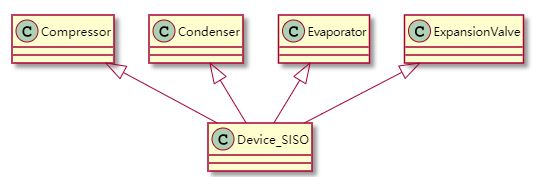
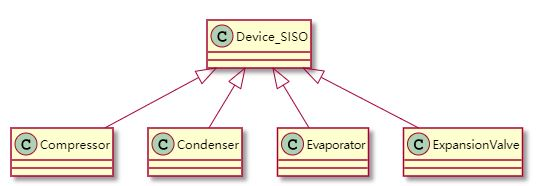
update fig

diff --git a/doc/Dot_Class_VCCE.md b/doc/Dot_Class_VCCE.md
@@ -1,0 +1,124 @@
+# Class Diagrams of VCCE in Dot
+
+- [Class Diagrams of VCCE in Dot](#class-diagrams-of-vcce-in-dot)
+  - [Class Method or Field](#class-method-or-field)
+    - [Visibility](#visibility)
+    - [Scope](#scope)
+  - [Class and Instance Relationships](#class-and-instance-relationships)
+    - [Instance-level Relationships](#instance-level-relationships)
+    - [Class-level  Relationship](#class-level--relationship)
+
+## Class Method or Field
+
+### Visibility
+
+When you define methods or fields, you can use **characters** to define the **visibility** of the corresponding item:
+
+| Character | Visibility |
+| --------- | :--------: |
+| -         |  private   |
+| +         |  public   |
+  
+
+```dot
+digraph "classes" {
+rankdir=BT
+charset="utf-8"
+"VCCycle" [
+       color="black", fontcolor="black", 
+      label="{VCCycle|
+       + name : str\l 
+       + refrigerant : str\l
+       + comps : dict of device\l 
+       + conns : Connector\l
+       + Qin : float\l 
+       + Qout : float\l 
+       + Wc : float\l
+       + cop : float\l
+       + cop_hp : float\l|
+       + VCCycle(dictcycle:dict)\l
+       - component_simulator()\l 
+       + simulator()\l 
+       + __str__():str\l}", shape="record", style="solid"];
+}
+
+
+```
+### Scope
+
+The UML specifies two types of scope for members: `instance and class`
+
+You can define **class**  methods or fields using the **static**
+
+```dot
+digraph "classes" {
+rankdir=BT
+charset="utf-8"
+"components.device_siso.Device_SISO" [color="black", fontcoor="black", 
+              label="{Device_SISO|
+               + static devtype: str\l
+               + static energy: str\l 
+               + name:str \l 
+               + iPort: Port\l 
+               + oPort: Port\l|
+               + Device_SISO(dictDev：dicts)\l 
+               + state()\l 
+               + mass_balance()\l 
+               + balance()\l 
+               + __str()__:str\l}",
+               shape="record", style="solid"];
+}
+
+```
+
+##  Class and Instance Relationships
+
+### Instance-level Relationships
+
+* Composition： a filled diamond shape (diamond)
+* Aggregation： a filled diamond shape (odiamond)
+
+```dot
+digraph {
+rankdir=BT
+
+node [shape="record"]
+
+"Connector" -> "VCCycle"
+  [arrowhead="diamond", arrowtail="none",fontcolor="blue",
+  label="1..*", style="solid"]
+
+{ "Compressor",
+  "Condenser",
+  "Evaporator",
+  "ExpansionValve"} -> "VCCycle"
+  [arrowhead="odiamond", arrowtail="none",fontcolor="blue",
+  label="1..*", style="solid"]
+
+"Port"-> {
+    "Connector",
+    "ExpansionValve",
+    "Evaporator",
+    "Condenser",
+    "Compressor"}
+    [arrowhead="diamond", arrowtail="none",
+     fontcolor="blue",label="2", style="solid"]
+} 
+```
+
+### Class-level  Relationship
+ 
+* Inheritance： a hollow triangle shape(empty)
+
+```dot
+digraph {
+rankdir=BT
+node [shape="record"]
+{
+   "Compressor",
+    "Condenser",
+    "Evaporator",
+    "ExpansionValve"}->"Device_SISO"
+     [arrowhead="empty", arrowtail="none",style="solid"];
+}
+```

diff --git a/doc/PlantUML_Class_VCCE.md b/doc/PlantUML_Class_VCCE.md
@@ -20,7 +20,7 @@ When you define methods or fields, you can use **characters** to define the **vi
 | Character | Visibility |
 | --------- | :--------: |
 | -         |  private   |
-| +         |   public   |
+| +         |  public   |
   
 
 ```puml
@@ -168,16 +168,16 @@ The class Inheritance Relationship  is  defined using the following symbol:
 <|--
 ```
 
-The Inheritance Relationship of components and Device_SISO
+The Inheritance Relationship of Device_SISO and components  
 
 ```puml
-Compressor <|-- Device_SISO  
-Condenser <|-- Device_SISO  
-Evaporator <|-- Device_SISO  
-ExpansionValve <|-- Device_SISO  
+Device_SISO  <|--Compressor  
+Device_SISO  <|-- Condenser  
+Device_SISO <|-- Evaporator   
+Device_SISO  <|-- ExpansionValve  
 ```
 
-![components and Device_SISO](./uml/img/components_device_siso_inheritance.jpg)
+![components_device_siso_inheritance](./uml/img/components_device_siso_inheritance.jpg)
 
 ## Class and Instance Relations 
 
@@ -194,12 +194,11 @@ ExpansionValve "1" *-[#blue]- "2" Port
 Evaporator "1" *-[#blue]- "2" Port
 Condenser "1" *-[#blue]- "2" Port
 
-Compressor <|-[#green]- Device_SISO  
-Condenser <|-[#green]- Device_SISO  
-Evaporator <|-[#green]- Device_SISO  
-ExpansionValve <|-[#green]- Device_SISO  
+Device_SISO <|-[#green]- Compressor   
+Device_SISO <|-[#green]- Condenser    
+Device_SISO <|-[#green]-  Evaporator  
+Device_SISO <|-[#green]-ExpansionValve    
 ```
-
 ![vccycle_relations_all](./uml/img/vccycle_relations_all.jpg)
 
 ## Package
